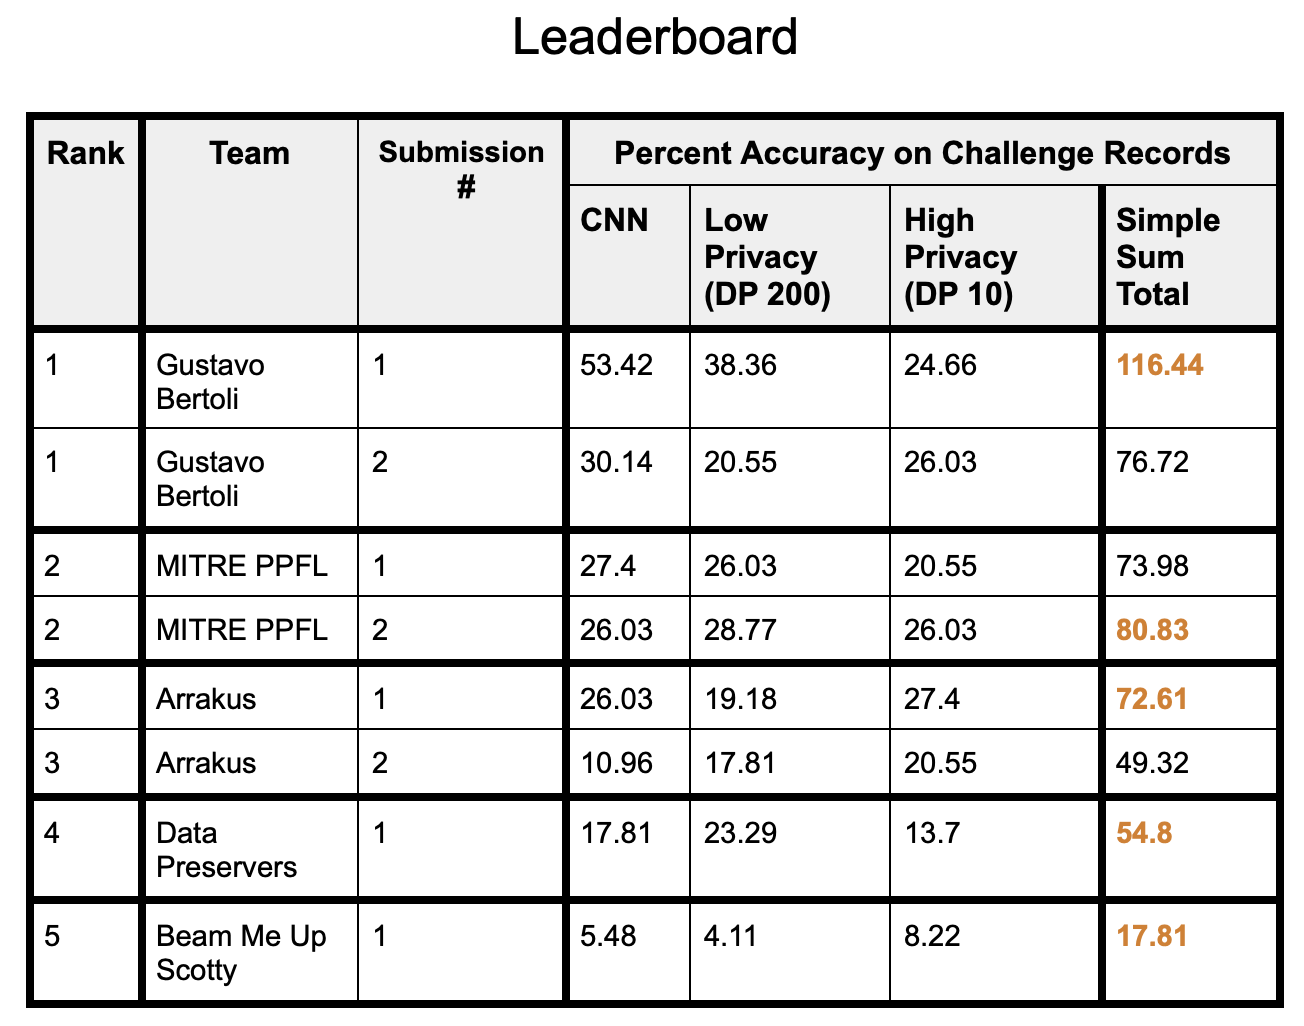
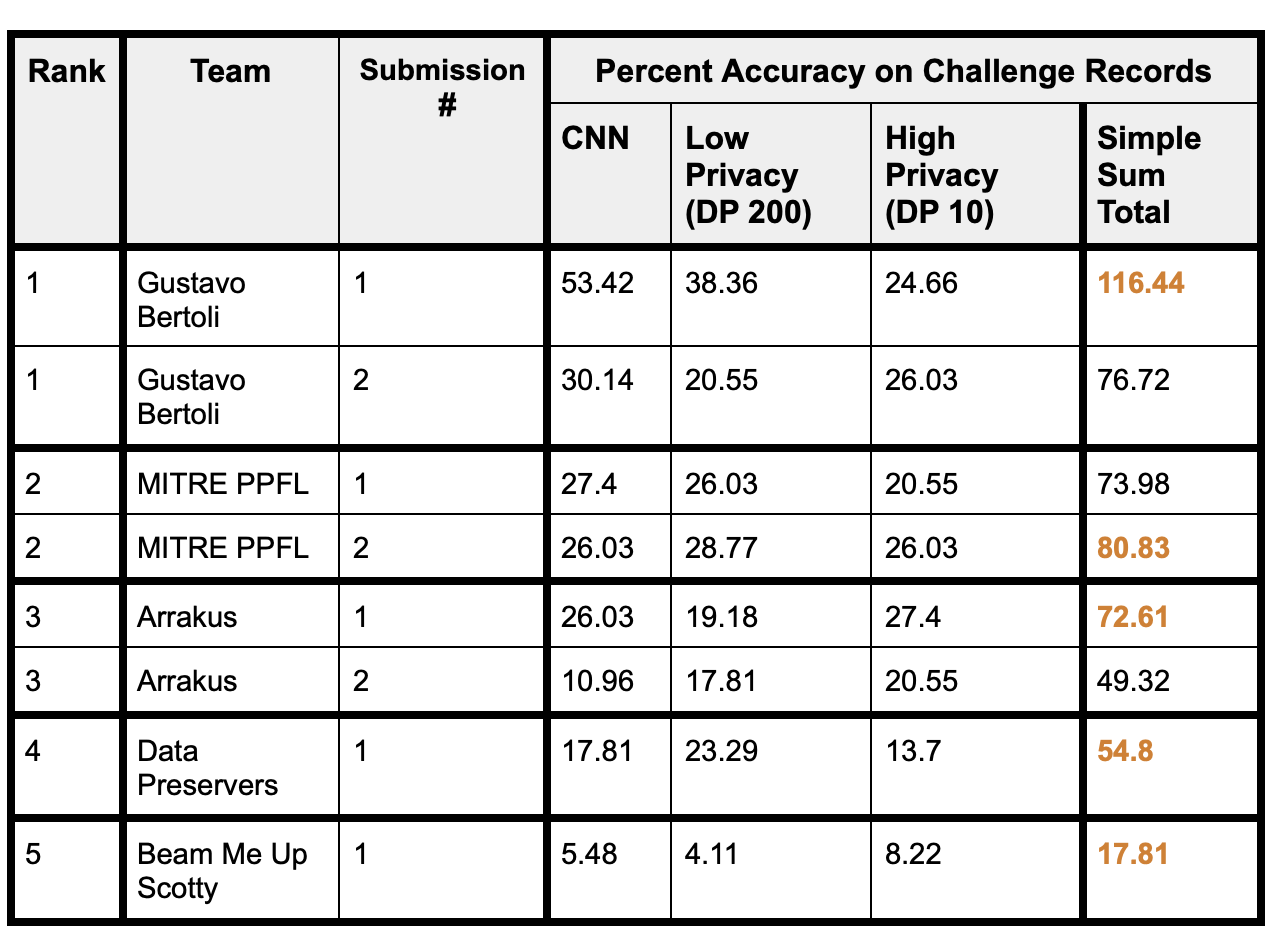
Fix proportions

Changed region(s): [[0.0, 0.0, 0.9961, 0.9831]]

diff --git a/index.html b/index.html
@@ -178,7 +178,7 @@ https://pages.nist.gov/genomics_ppfl/
 
 						<!-- LEADERBOARD -->
 						<h2>Problem 2 Leaderboard</h2>
-							<img src="./images/Leaderboard_20250612.png" width="80%" style="vertical-align:middle">
+							<img src="./images/Leaderboard_20250612.png" width="100%" style="vertical-align:middle">
 						<p><h2>Problem 1 Leaderboard</h2>
 							<img src="./images/leaderboard_20250507.png" width="80%" style="vertical-align:middle">
 							
